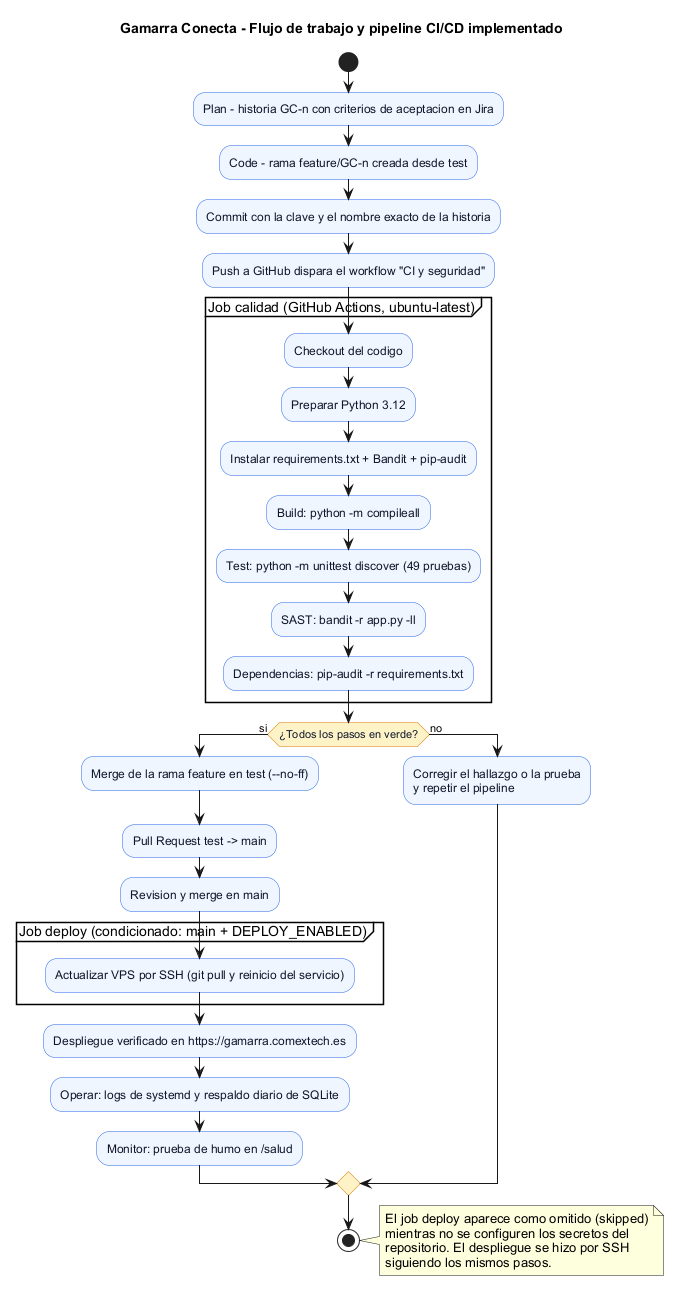
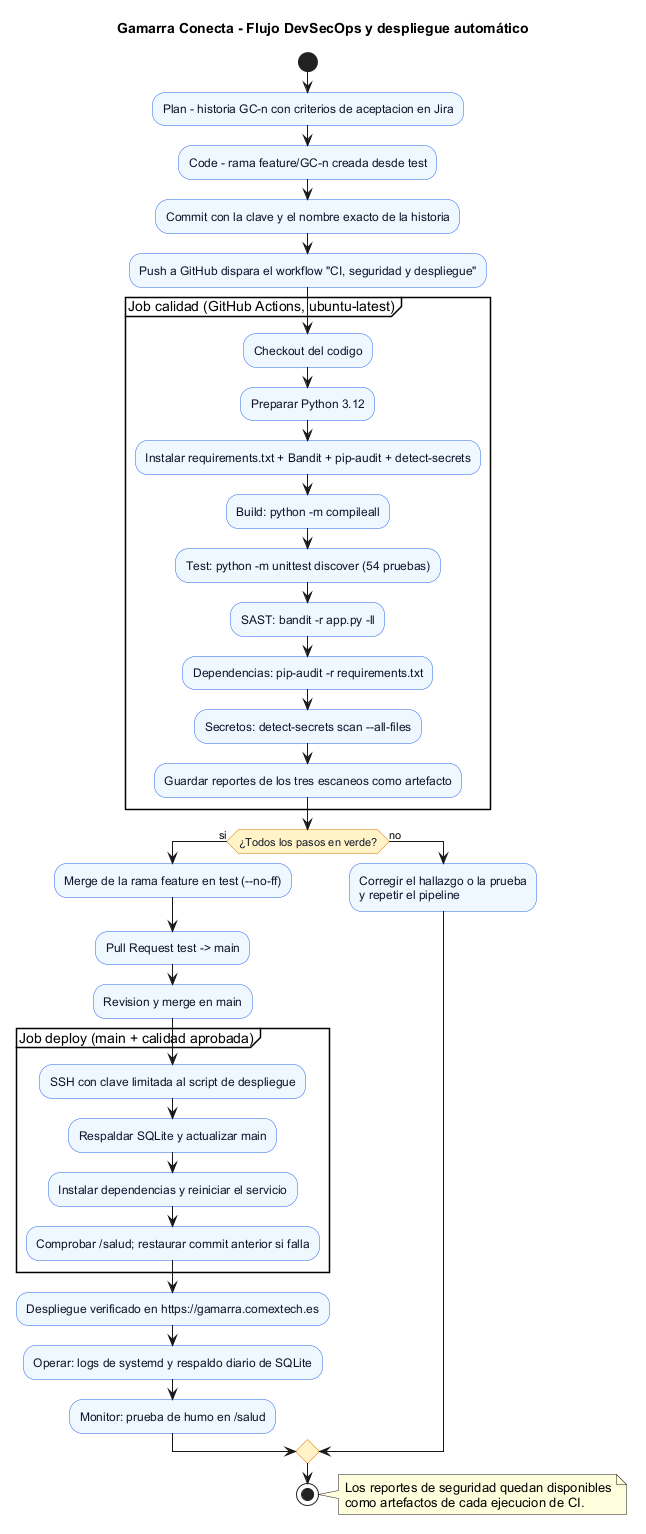
GC-16: reforzar seguridad y automatizar despliegue

Changed region(s): [[0.0, 0.0, 0.9907, 0.9884]]

diff --git a/tests/test_app.py b/tests/test_app.py
@@ -2,6 +2,7 @@ import sqlite3
 import tempfile
 import unittest
 from pathlib import Path
+from unittest.mock import patch
 
 from werkzeug.security import generate_password_hash
 
@@ -28,7 +29,7 @@ class GamarraAppTests(unittest.TestCase):
     def register_and_login(self, email='ana@example.test', name='Ana'):
         result = self.post('/registro', {'name': name, 'email': email, 'password': 'ClaveSegura123!'})
         self.assertIn('Cuenta creada'.encode(), result.data)
-        return self.post('/login', {'email': email, 'password': 'ClaveSegura123!'})
+        return self.post('/login', {'email': email, 'password': 'ClaveSegura123!'})  # pragma: allowlist secret
 
     def make_admin(self):
         connection = sqlite3.connect(self.db_path)
@@ -57,6 +58,20 @@ class GamarraAppTests(unittest.TestCase):
         result = self.client.post('/registro', data={'name': 'Ana', 'email': 'ana@example.test', 'password': 'ClaveSegura123!'})
         self.assertEqual(result.status_code, 400)
 
+    def test_login_blocks_brute_force_and_recovers_after_window(self):
+        self.post('/registro', {'name': 'Ana', 'email': 'ana@example.test', 'password': 'ClaveSegura123!'})  # pragma: allowlist secret
+        with patch('app.time.time', return_value=1_000_000):
+            for _ in range(5):
+                self.assertIn(b'Credenciales incorrectas', self.post('/login', {
+                    'email': 'ana@example.test', 'password': 'incorrecta',  # pragma: allowlist secret
+                }).data)
+            blocked = self.post('/login', {'email': 'ana@example.test', 'password': 'ClaveSegura123!'})
+            self.assertEqual(blocked.status_code, 429)
+        with patch('app.time.time', return_value=1_000_901):
+            recovered = self.post('/login', {'email': 'ana@example.test', 'password': 'ClaveSegura123!'})
+            self.assertEqual(recovered.status_code, 200)
+            self.assertIn(b'Mi negocio', recovered.data)
+
     def test_business_requires_review_before_search(self):
         self.register_and_login()
         result = self.post('/mi-negocio', {
@@ -67,7 +82,7 @@ class GamarraAppTests(unittest.TestCase):
         self.assertNotIn(b'Confecciones Andinas', self.client.get('/negocios').data)
         self.make_admin()
         admin_client = self.app.test_client()
-        self.post('/login', {'email': 'admin@example.test', 'password': 'ClaveAdmin123!'}, admin_client)
+        self.post('/login', {'email': 'admin@example.test', 'password': 'ClaveAdmin123!'}, admin_client)  # pragma: allowlist secret
         dashboard = admin_client.get('/admin')
         self.assertIn(b'Confecciones Andinas', dashboard.data)
         self.post('/admin/negocios/1/publicar', {}, admin_client)
@@ -80,8 +95,8 @@ class GamarraAppTests(unittest.TestCase):
         self.assertIn(b'Deseo conocer los pasos.', self.client.get('/orientacion').data)
         self.assertEqual(self.client.get('/admin').status_code, 403)
         other = self.app.test_client()
-        self.post('/registro', {'name': 'Beto', 'email': 'beto@example.test', 'password': 'ClaveSegura123!'}, other)
-        self.post('/login', {'email': 'beto@example.test', 'password': 'ClaveSegura123!'}, other)
+        self.post('/registro', {'name': 'Beto', 'email': 'beto@example.test', 'password': 'ClaveSegura123!'}, other)  # pragma: allowlist secret
+        self.post('/login', {'email': 'beto@example.test', 'password': 'ClaveSegura123!'}, other)  # pragma: allowlist secret
         self.assertNotIn(b'Deseo conocer los pasos.', other.get('/orientacion').data)
 
     def test_publication_rejects_non_admin_and_invalid_category(self):

diff --git a/app.py b/app.py
@@ -5,6 +5,7 @@ from __future__ import annotations
 import os
 import secrets
 import sqlite3
+import time
 from functools import wraps
 from pathlib import Path
 
@@ -39,6 +40,11 @@ CREATE TABLE IF NOT EXISTS guidance_requests (
     details TEXT NOT NULL,
     status TEXT NOT NULL DEFAULT 'pendiente' CHECK(status IN ('pendiente', 'revisada')),
     created_at TEXT NOT NULL DEFAULT CURRENT_TIMESTAMP
+);
+CREATE TABLE IF NOT EXISTS login_attempts (
+    email TEXT PRIMARY KEY,
+    failures INTEGER NOT NULL,
+    last_failed_at INTEGER NOT NULL
 );
 """
 
@@ -159,10 +165,25 @@ def create_app(test_config: dict | None = None) -> Flask:
     def login():
         if request.method == 'POST':
             email = request.form.get('email', '').strip().lower()
+            now = int(time.time())
+            attempt = db().execute(
+                'SELECT failures, last_failed_at FROM login_attempts WHERE email = ?', (email,)
+            ).fetchone()
+            if attempt and attempt['failures'] >= 5 and now - attempt['last_failed_at'] < 900:
+                abort(429, 'Demasiados intentos. Vuelve a intentarlo en 15 minutos.')
             user = db().execute('SELECT * FROM users WHERE email = ?', (email,)).fetchone()
             if user is None or not check_password_hash(user['password_hash'], request.form.get('password', '')):
+                with db():
+                    db().execute(
+                        '''INSERT INTO login_attempts(email, failures, last_failed_at) VALUES(?, 1, ?)
+                        ON CONFLICT(email) DO UPDATE SET
+                        failures = CASE WHEN ? - last_failed_at >= 900 THEN 1 ELSE failures + 1 END,
+                        last_failed_at = ?''', (email, now, now, now),
+                    )
                 flash('Credenciales incorrectas.', 'error')
             else:
+                with db():
+                    db().execute('DELETE FROM login_attempts WHERE email = ?', (email,))
                 session.clear()
                 session['user_id'] = user['id']
                 session['_csrf'] = secrets.token_urlsafe(32)

diff --git a/tests/base.py b/tests/base.py
@@ -27,9 +27,9 @@ class HistoriaTestCase(unittest.TestCase):
         return target.post(path, data={'_csrf': token, **data}, follow_redirects=follow)
 
     def register(self, email='ana@example.test', name='Ana', client=None):
-        return self.post('/registro', {'name': name, 'email': email, 'password': 'ClaveSegura123!'}, client)
+        return self.post('/registro', {'name': name, 'email': email, 'password': 'ClaveSegura123!'}, client)  # pragma: allowlist secret
 
-    def login(self, email='ana@example.test', password='ClaveSegura123!', client=None):
+    def login(self, email='ana@example.test', password='ClaveSegura123!', client=None):  # pragma: allowlist secret
         return self.post('/login', {'email': email, 'password': password}, client)
 
     def new_client(self):

diff --git a/README.md b/README.md
@@ -42,6 +42,8 @@ El comando solicita una contraseña de al menos 10 caracteres sin mostrarla. No 
 
 Las contraseñas se almacenan como hashes generados por Werkzeug. Todas las operaciones POST exigen token CSRF. Las consultas SQL usan parámetros. Las rutas protegidas comprueban sesión y rol. La cookie de sesión tiene HttpOnly y SameSite=Lax; al definir `GAMARRA_ENV=production`, también exige Secure. En producción debe definirse además `GAMARRA_SECRET_KEY` con un valor aleatorio persistente y servirse solo por HTTPS. Los datos que introduce el usuario se escapan mediante Jinja; no se usa HTML sin filtrar.
 
+El ingreso limita a cinco intentos fallidos por correo durante quince minutos, con el contador compartido en SQLite entre los procesos Gunicorn. La prueba que detectó y verificó la corrección del problema está documentada en `docs/hallazgo_seguridad.md`.
+
 La aplicación usa SQLite para una demostración académica de escala pequeña. Para un despliegue concurrente o de mayor escala conviene migrar a PostgreSQL y evaluar copias de seguridad, monitoreo, recuperación y gestión de datos personales.
 
 ## Verificación local
@@ -49,17 +51,18 @@ La aplicación usa SQLite para una demostración académica de escala pequeña. 
 ```powershell
 python -m unittest discover -s tests -v
 python -m compileall -q app.py tests
-python -m pip install bandit pip-audit
-bandit -r app.py -ll
-pip-audit -r requirements.txt
+python -m pip install bandit pip-audit detect-secrets==1.5.0
+python -m bandit -r app.py -ll
+python -m pip_audit -r requirements.txt
+detect-secrets scan --all-files
 ```
 
-GitHub Actions ejecuta las mismas fases de compilación, pruebas, análisis estático de seguridad y auditoría de dependencias en cada push y pull request. El job `deploy` queda omitido hasta configurar la variable `DEPLOY_ENABLED=true`, el entorno `production` y los secretos `DEPLOY_SSH_KEY`, `DEPLOY_KNOWN_HOSTS`, `DEPLOY_HOST` y `DEPLOY_USER` en el repositorio. Un archivo de workflow por sí solo no demuestra una ejecución remota exitosa: esa evidencia debe obtenerse en la pestaña Actions del repositorio publicado.
+GitHub Actions ejecuta compilación, 54 pruebas, Bandit, pip-audit y detect-secrets en cada push y pull request, y conserva los tres reportes de seguridad como artefacto. Un push a `main` que supera `calidad` inicia `deploy` cuando `DEPLOY_ENABLED=true`. La clave SSH del job está limitada en el VPS a ejecutar `scripts/deploy.sh`: actualiza `main`, instala dependencias en el entorno virtual del servidor, reinicia el servicio y comprueba `/salud`. Antes de desplegar guarda una copia de SQLite; si falla la instalación, el reinicio o la comprobación de salud, restaura el commit anterior. El job necesita el entorno `production` y los secretos `DEPLOY_SSH_KEY`, `DEPLOY_KNOWN_HOSTS`, `DEPLOY_HOST` y `DEPLOY_USER`.
 
 ## Ramas y trazabilidad
 
-`main` es la rama de producción y `test` la de integración. Cada historia de Jira (espacio GC) se trabajó en una rama `feature/GC-n-...` desde `test`; el commit lleva como mensaje la clave y el nombre exacto de la historia, se integra en `test` con un merge sin fast-forward y un Pull Request lleva `test` a `main`. Cada push ejecuta el workflow «CI y seguridad».
+`main` es la rama de producción y `test` la de integración. Cada historia de Jira (espacio GC) se trabajó en una rama `feature/GC-n-...` desde `test`; el commit lleva como mensaje la clave y el nombre exacto de la historia, se integra en `test` con un merge sin fast-forward y el Pull Request #1 integró `test` en `main`. Cada push ejecuta el workflow «CI, seguridad y despliegue».
 
 ## Despliegue
 
-La aplicación está publicada en https://gamarra.comextech.es sobre un VPS Ubuntu: carpeta `/srv/gamarra-conecta`, usuario del sistema `gamarra` sin privilegios, entorno virtual con Flask y Gunicorn, servicio `systemd` `gamarra-conecta` (Gunicorn en `127.0.0.1:8018`), Nginx con certificado de Let's Encrypt y redirección de HTTP a HTTPS. `GAMARRA_ENV=production` y `GAMARRA_SECRET_KEY` están en `/etc/gamarra-conecta.env` (permisos 600, fuera de Git). Una regla de `sudoers` permite al usuario `gamarra` reiniciar únicamente ese servicio. Un respaldo diario a las 03:30 copia `instance/gamarra.sqlite3` a `/srv/gamarra-backups` y conserva 14 días. Para actualizar: `git pull` en la carpeta, `pip install -r requirements.txt` y `sudo systemctl restart gamarra-conecta`; después, comprobar `/salud`.
+La aplicación está publicada en https://gamarra.comextech.es sobre un VPS Ubuntu: carpeta `/srv/gamarra-conecta`, usuario del sistema `gamarra` sin privilegios, entorno virtual en `/srv/gamarra-conecta-home/venv`, servicio `systemd` `gamarra-conecta` (Gunicorn en `127.0.0.1:8018`), Nginx con certificado de Let's Encrypt y redirección de HTTP a HTTPS. `GAMARRA_ENV=production` y `GAMARRA_SECRET_KEY` están en `/etc/gamarra-conecta.env` (permisos 600, fuera de Git). Una regla de `sudoers` permite al usuario `gamarra` reiniciar únicamente ese servicio. Un respaldo diario a las 03:30 copia `instance/gamarra.sqlite3` a `/srv/gamarra-backups` y conserva 14 días. El procedimiento reproducible está en `scripts/deploy.sh` y el resultado de cada ejecución se comprueba en GitHub Actions y en `/salud`.

diff --git a/docs/hallazgo_seguridad.md b/docs/hallazgo_seguridad.md
@@ -1,0 +1,23 @@
+# Hallazgo corregido: intentos ilimitados de ingreso
+
+## Detección
+
+La revisión del flujo de autenticación encontró que `/login` permitía repetir contraseñas incorrectas sin límite. Se añadió `test_login_blocks_brute_force_and_recovers_after_window` como prueba de seguridad automatizada. Al ejecutarla contra el código anterior al cambio, falló: el sexto intento con la contraseña correcta ingresó (HTTP 200) cuando debía bloquearse (HTTP 429). La salida de esa ejecución se conserva en la evidencia del informe.
+
+## Corrección
+
+La aplicación guarda en SQLite los fallos por correo normalizado. Tras cinco fallos dentro de quince minutos, rechaza los siguientes intentos con HTTP 429. Al terminar la ventana se puede volver a ingresar y un ingreso correcto limpia el contador. SQLite permite aplicar el control a los dos procesos Gunicorn del VPS; los datos persisten al reiniciar el servicio.
+
+La prueba de seguridad pasó después de la corrección. Las 54 pruebas de la aplicación, Bandit, pip-audit y detect-secrets forman las puertas de calidad del pipeline. El escaneo de secretos identificó inicialmente cadenas de prueba en `tests/`, que se revisaron y marcaron explícitamente como datos ficticios; el resultado final quedó en cero hallazgos.
+
+## Reproducción
+
+```bash
+python -m unittest discover -s tests -p test_app.py -k test_login_blocks
+python -m unittest discover -s tests -v
+bandit -r app.py -ll
+pip-audit -r requirements.txt
+detect-secrets scan --all-files
+```
+
+El control limita intentos por cuenta. Una futura versión podría añadir límites por origen y alertas de actividad anómala.
